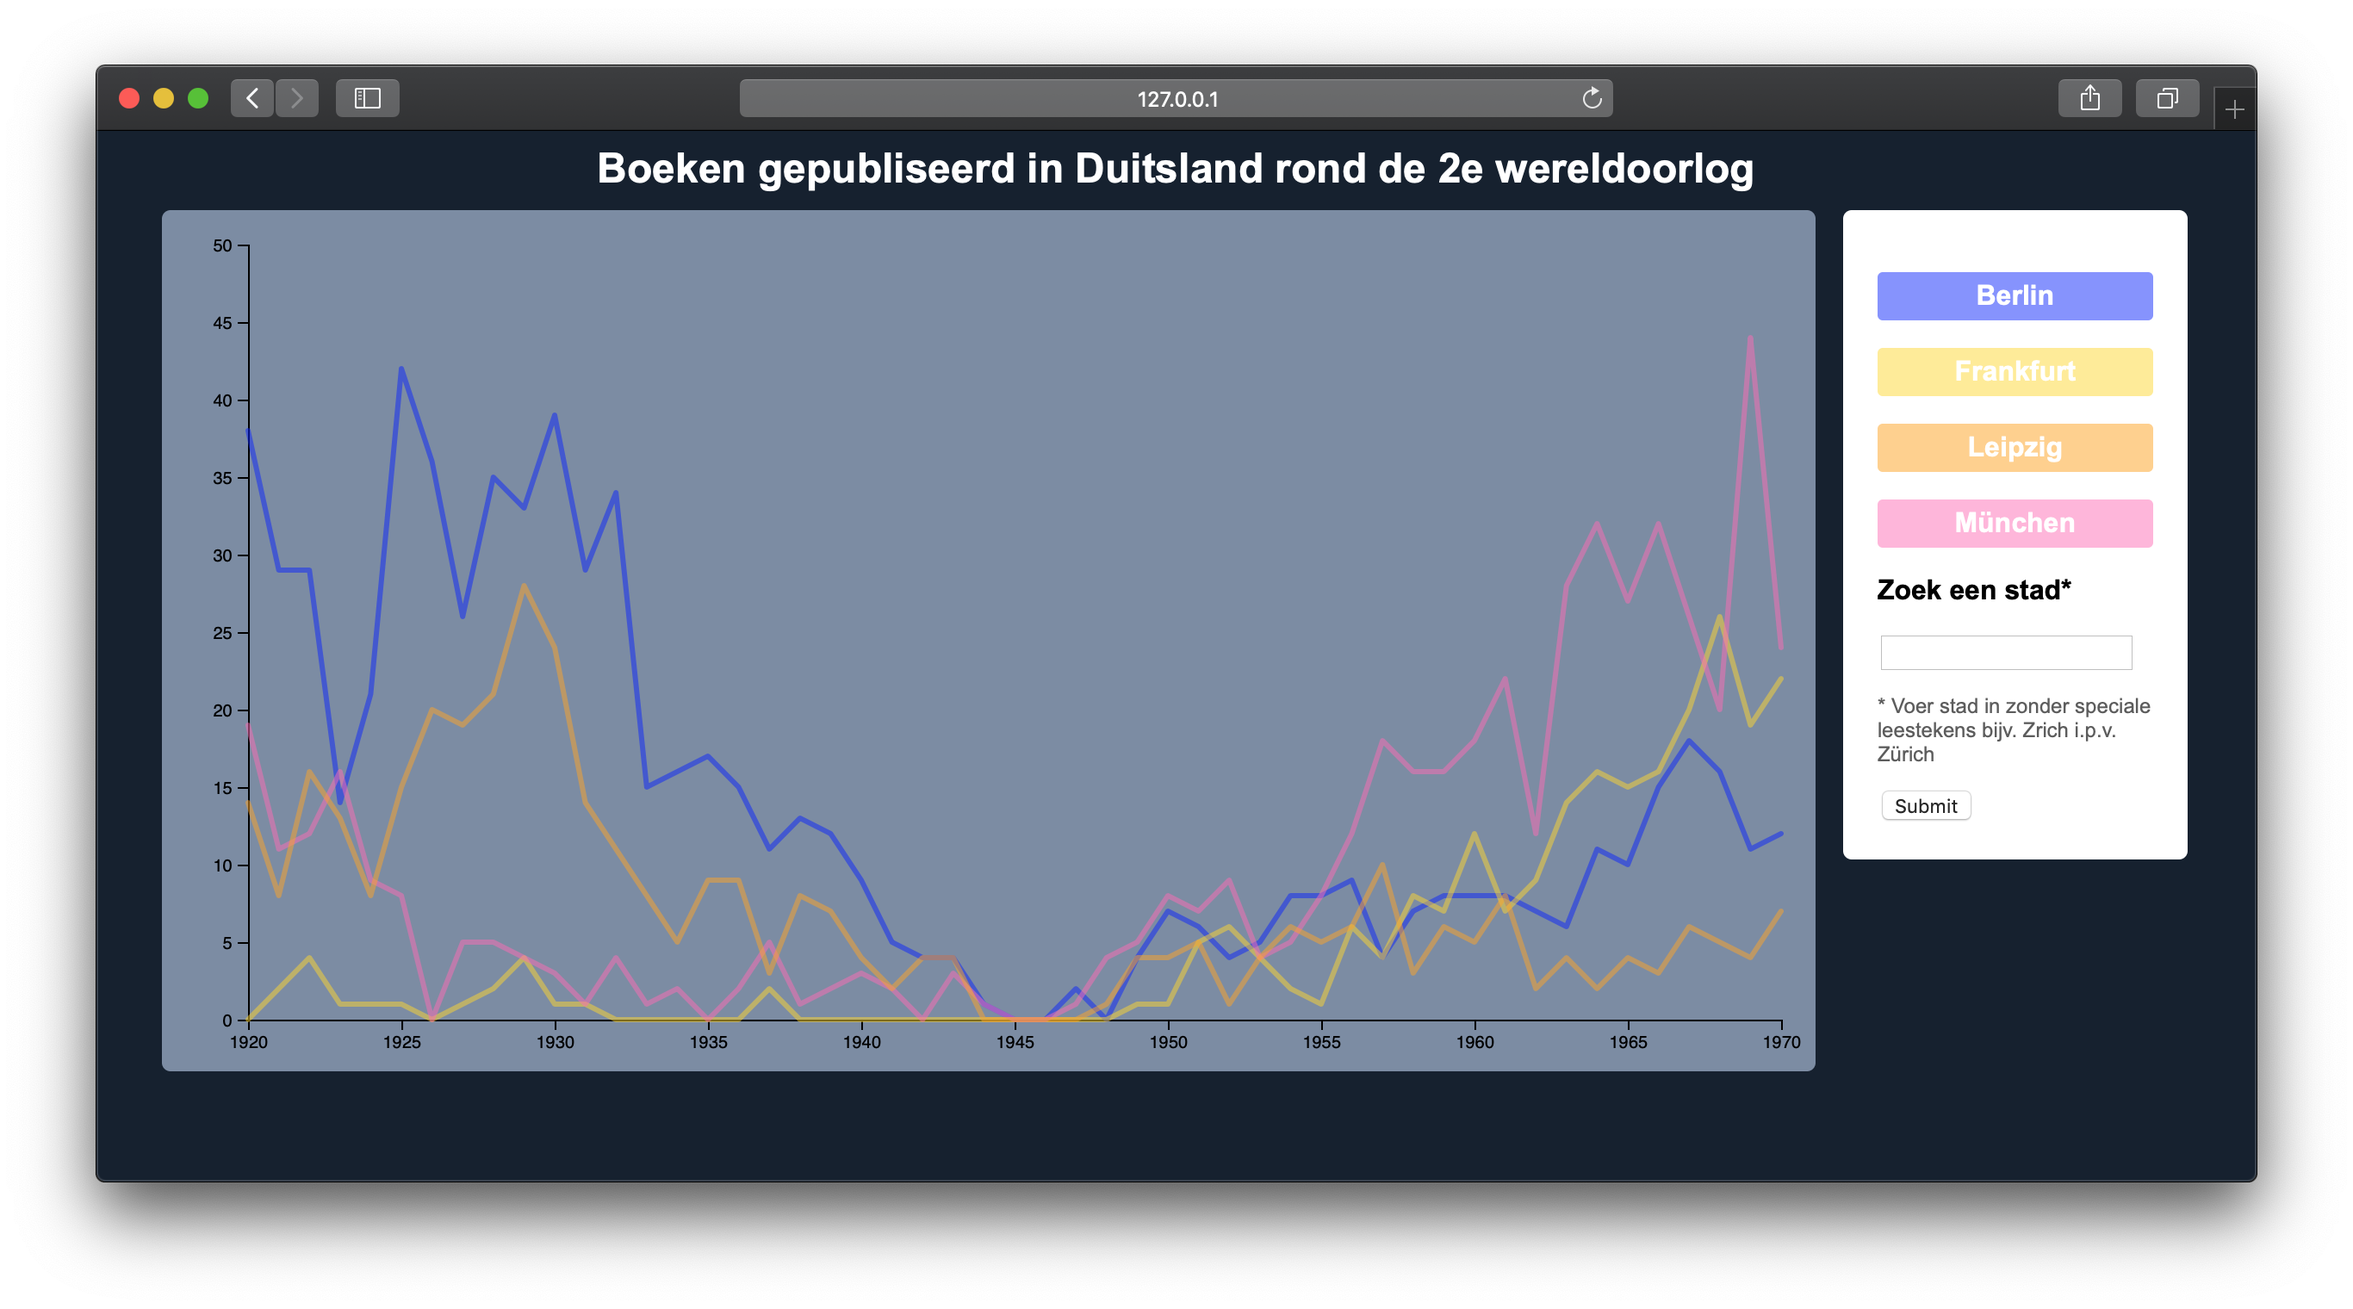
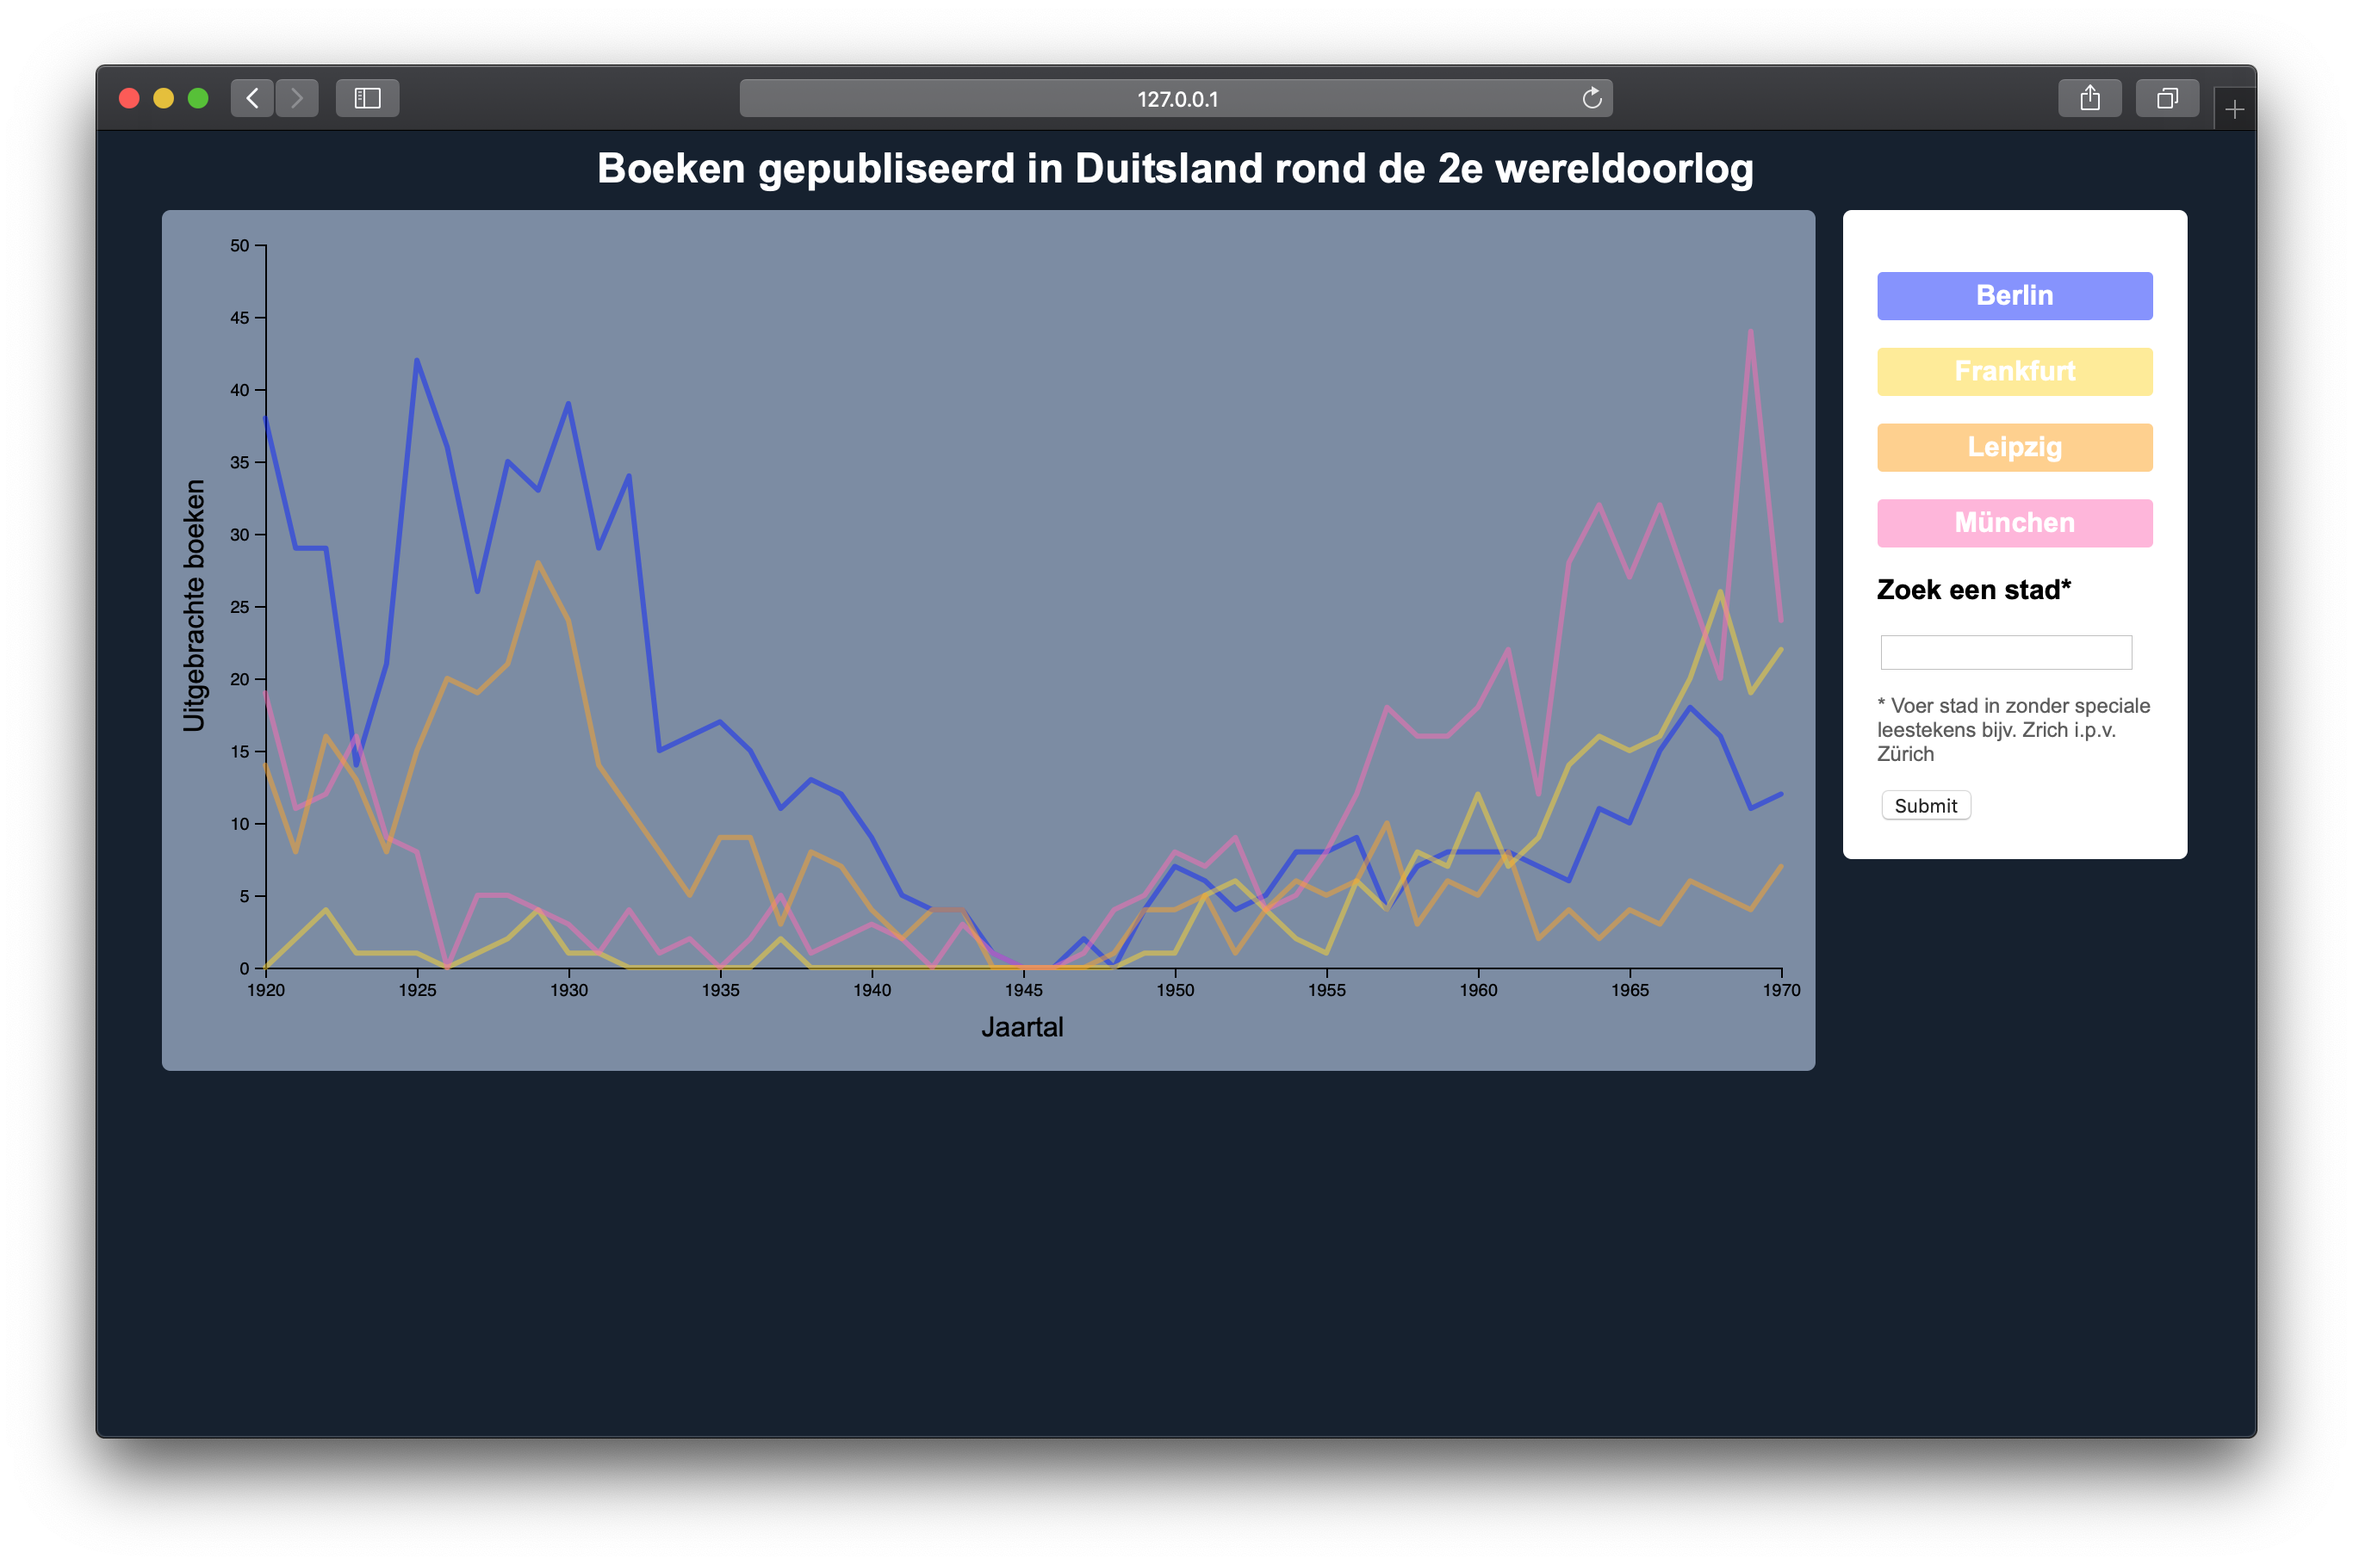
added axis.text

Changed region(s): [[0.0311, 0.0309, 0.9645, 0.8349], [0.0311, 0.8967, 0.9645, 0.9586], [0.3111, 0.4947, 0.3734, 0.5566]]

diff --git a/d3.js b/d3.js
@@ -1,9 +1,4 @@
-// Based on https://bl.ocks.org/gordlea/27370d1eea8464b04538e6d8ced39e89
-// d3.csv("duitsesteden.csv").then(function(data) {
-//     return data
-// })
-
-
+// Based on https://beta.observablehq.com/@razpudding/d3-multi-line-chart
 
 // .then(data => {  
 //   d3.json("data/all.json").then(function(bookdata){
@@ -98,7 +93,7 @@ d3.json("data/all.json").then(function(data) {
         }
     })
 
-    let cityList = ['Berlin', 'Kln',  'Frankfurt am Main', 'Mnchen', 'Leipzig']
+    let cityList = ['Berlin',  'Frankfurt am Main', 'Mnchen', 'Leipzig']
     let dataList = []
 
 
@@ -147,7 +142,7 @@ d3.json("data/all.json").then(function(data) {
 
 
     
-    var margin = {top: 20, right: 20, bottom: 30, left: 50},
+    var margin = {top: 20, right: 20, bottom: 60, left: 60},
     width = 960 - margin.left - margin.right,
     height = 500 - margin.top - margin.bottom;
 
@@ -170,10 +165,25 @@ d3.json("data/all.json").then(function(data) {
     svg.append("g")
     .attr("transform", "translate(0," + height + ")")
     .call(d3.axisBottom(x));
+    svg.append("text")             
+      .attr("transform",
+            "translate(" + (width/2) + " ," + 
+                           (height + margin.top + 20) + ")")
+      .style("text-anchor", "middle")
+      .style("font-family", "Arial, Helvetica, sans-serif")
+      .text("Jaartal");
 
     // Add the Y Axis
     svg.append("g")
         .call(d3.axisLeft(y));
+        svg.append("text")
+      .attr("transform", "rotate(-90)")
+      .attr("y", 0 - margin.left)
+      .attr("x",0 - (height / 2))
+      .attr("dy", "1.5em")
+      .style("text-anchor", "middle")
+      .style("font-family", "Arial, Helvetica, sans-serif")
+      .text("Uitgebrachte boeken");      
     
             
     update(createDataList(cityList))

diff --git a/style.css b/style.css
@@ -1,22 +1,26 @@
 body {
-    background-color: #efefef;
+    background-color: #162130;
 }
 
 #chart {
-    border-radius: 5px
+    border-radius: 5px;
+    background-color: #162130;
 }
 
 svg {
-    background-color: white;
+    background-color: #7b8ca4;
+    border-radius: 5px;
+
 }
 
 h1 {
-    color: black;
+    color: white;
     font-size: 24px;
     font-family: Arial, Helvetica, sans-serif;
     font-weight: bolder;
     margin: 0;
     padding-bottom: 10px;
+    text-align: center;
 
 }
 
@@ -54,7 +58,7 @@ h1 {
       width: 10em;
       float: right;
       padding: 20px;
-      margin-right: 12em;
+      margin-right: 2em;
       text-align: left;
       font-family: Arial, Helvetica, sans-serif;
       font-size: 16px;
@@ -125,4 +129,8 @@ h1 {
     color: white;
     text-align: center;
     padding: 5px
+  }
+
+  .Zrich {
+      stroke: limegreen;
   }

diff --git a/index.html b/index.html
@@ -14,7 +14,6 @@
         <section class='legend'>
             <p class="Berlin">Berlin</p>
             <p class="Frankfurt">Frankfurt</p>
-            <p class="Kln">Keulen</p>
             <p class="Leipzig">Leipzig</p>
             <p class="Mnchen">München</p>
             <p>Zoek een stad*</p>

diff --git a/README.md b/README.md
@@ -2,8 +2,8 @@
 ![Endresult](images/final_graph.png)
 
 ## Index
-**[Installation](#installation)**<br>
 **[Introduction](#Introduction)**<br>
+**[Installation](#installation)**<br>
 **[Data Restructering](#data-restructering)**<br>
 **[Checklist](#checklist)**<br>
 **[Conclusion](#conclusion)**<br>
@@ -94,7 +94,9 @@ function createDataList(list){
 }
 
 ```
-With the help of @gijslaarman 
+This was done ith the help of @gijslaarman .
+
+
 
 ## Checklist
 
@@ -114,3 +116,5 @@ With the help of @gijslaarman
 ### Credits
 @Gijslaarman for helping me restructure the data. <br>
 @Folkert-Jan for helping with the update function.
+@mbostock: https://beta.observablehq.com/@mbostock/d3-multi-line-chart
+
